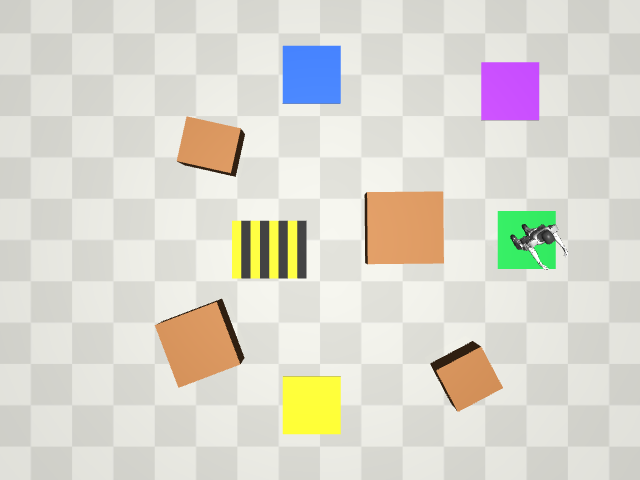
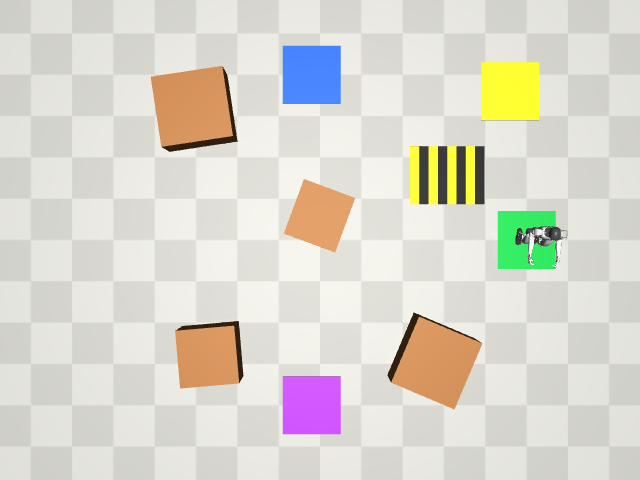
Add hazard zone avoidance, results and README

diff --git a/README.md b/README.md
@@ -4,6 +4,23 @@ PAI 最終課題。日本語の作業指示と俯瞰カメラ画像から、VLM(
 「どのステーションへどの順で行くか」と「障害物の位置」を認識し、A* で安全な経路を計算、
 Unitree 公式の **学習済み強化学習歩行方策** で G1 を歩かせます(MuJoCo シミュレーション)。
 
+## デモ動画
+https://youtu.be/3eoXVqPIqbs (等倍速・MuJoCo シミュレーション)
+
+## 工夫した点:立入禁止ゾーン(作業者エリア)の認識と回避
+床の黄黒しま模様を「人が作業している区域」とし、Gemini に障害物として検出させ、A* で避けて通る経路を計画する。
+意味の理解は AI、安全の担保は検証できるアルゴリズム、という役割分担にした。
+
+## 結果
+| 条件 | 試行数 | 成功率 | 立入禁止ゾーンに入った試行 |
+| --- | --- | --- | --- |
+| Gemini ER 2(ゾーン認識あり) | 10 | 10/10 | 0/10 |
+| mock・ゾーン認識あり | 20 | 20/20 | 0/20 |
+| mock・ゾーンを無視(比較用) | 20 | 9/20 | 11/20 |
+
+- 同じ20配置で比較。ゾーンを避けることによる所要時間の増加は平均 2.0 ± 1.9 秒。
+- 位置認識誤差は 0.005 ± 0.002 m(n=10)。単色の模擬環境のため高精度に出ており、実際の工場画像では悪化すると考えられる。
+
 ```
 日本語の指示 + 俯瞰画像
    └─▶ Gemini Robotics ER 2 … 訪問先(順番・位置)と障害物を認識   [AI 推論 ①]
@@ -49,6 +66,7 @@ python eval.py --planner gemini --n 10 --sleep 6
 - 自己位置はシミュレータの真値を使用(実機では SLAM 等が必要)。
 - 歩行方策は Unitree 公式の学習済みモデルを推論のみで使用(自前学習はしていない)。
 - 12 自由度モデル(脚のみ駆動、腕は固定)のため、物を持つ動作はしない(「到着して作業」の表現にとどめる)。
+
 
 ## クレジット・ライセンス
 - G1 モデル・学習済み方策: [unitreerobotics/unitree_rl_gym](https://github.com/unitreerobotics/unitree_rl_gym)(BSD-3-Clause)。`scripts/get_assets.sh` で取得し、本リポジトリには含めない。
